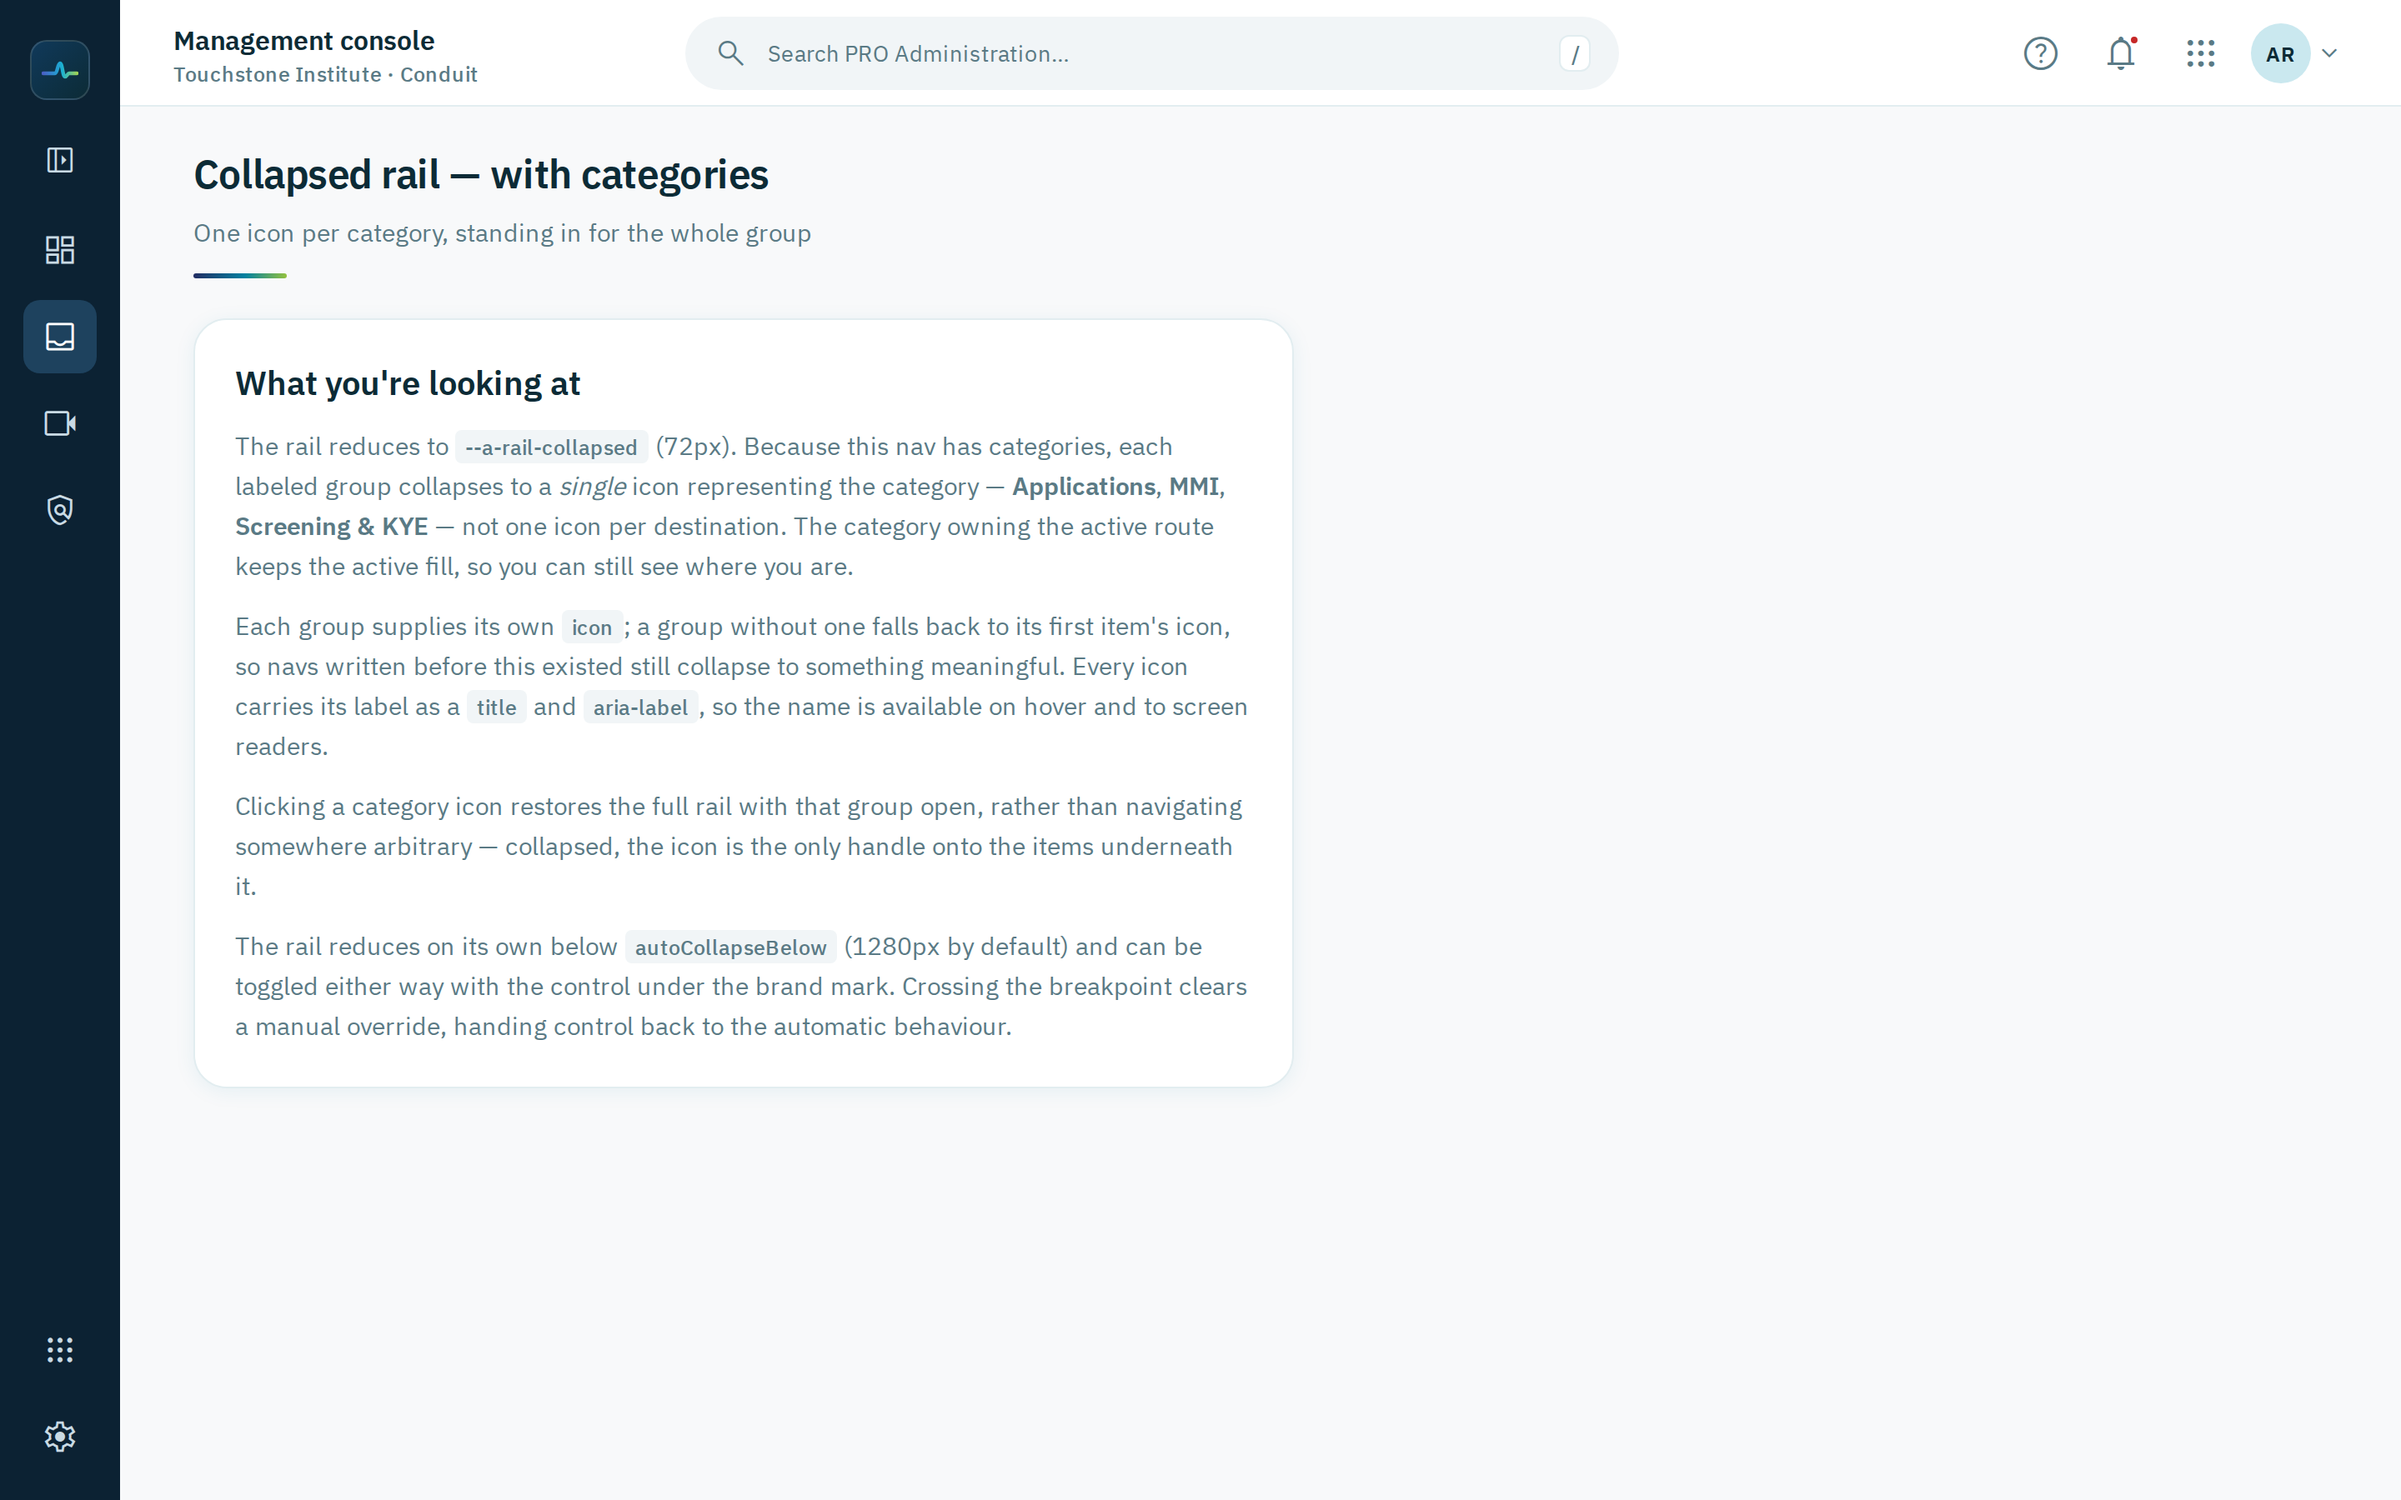
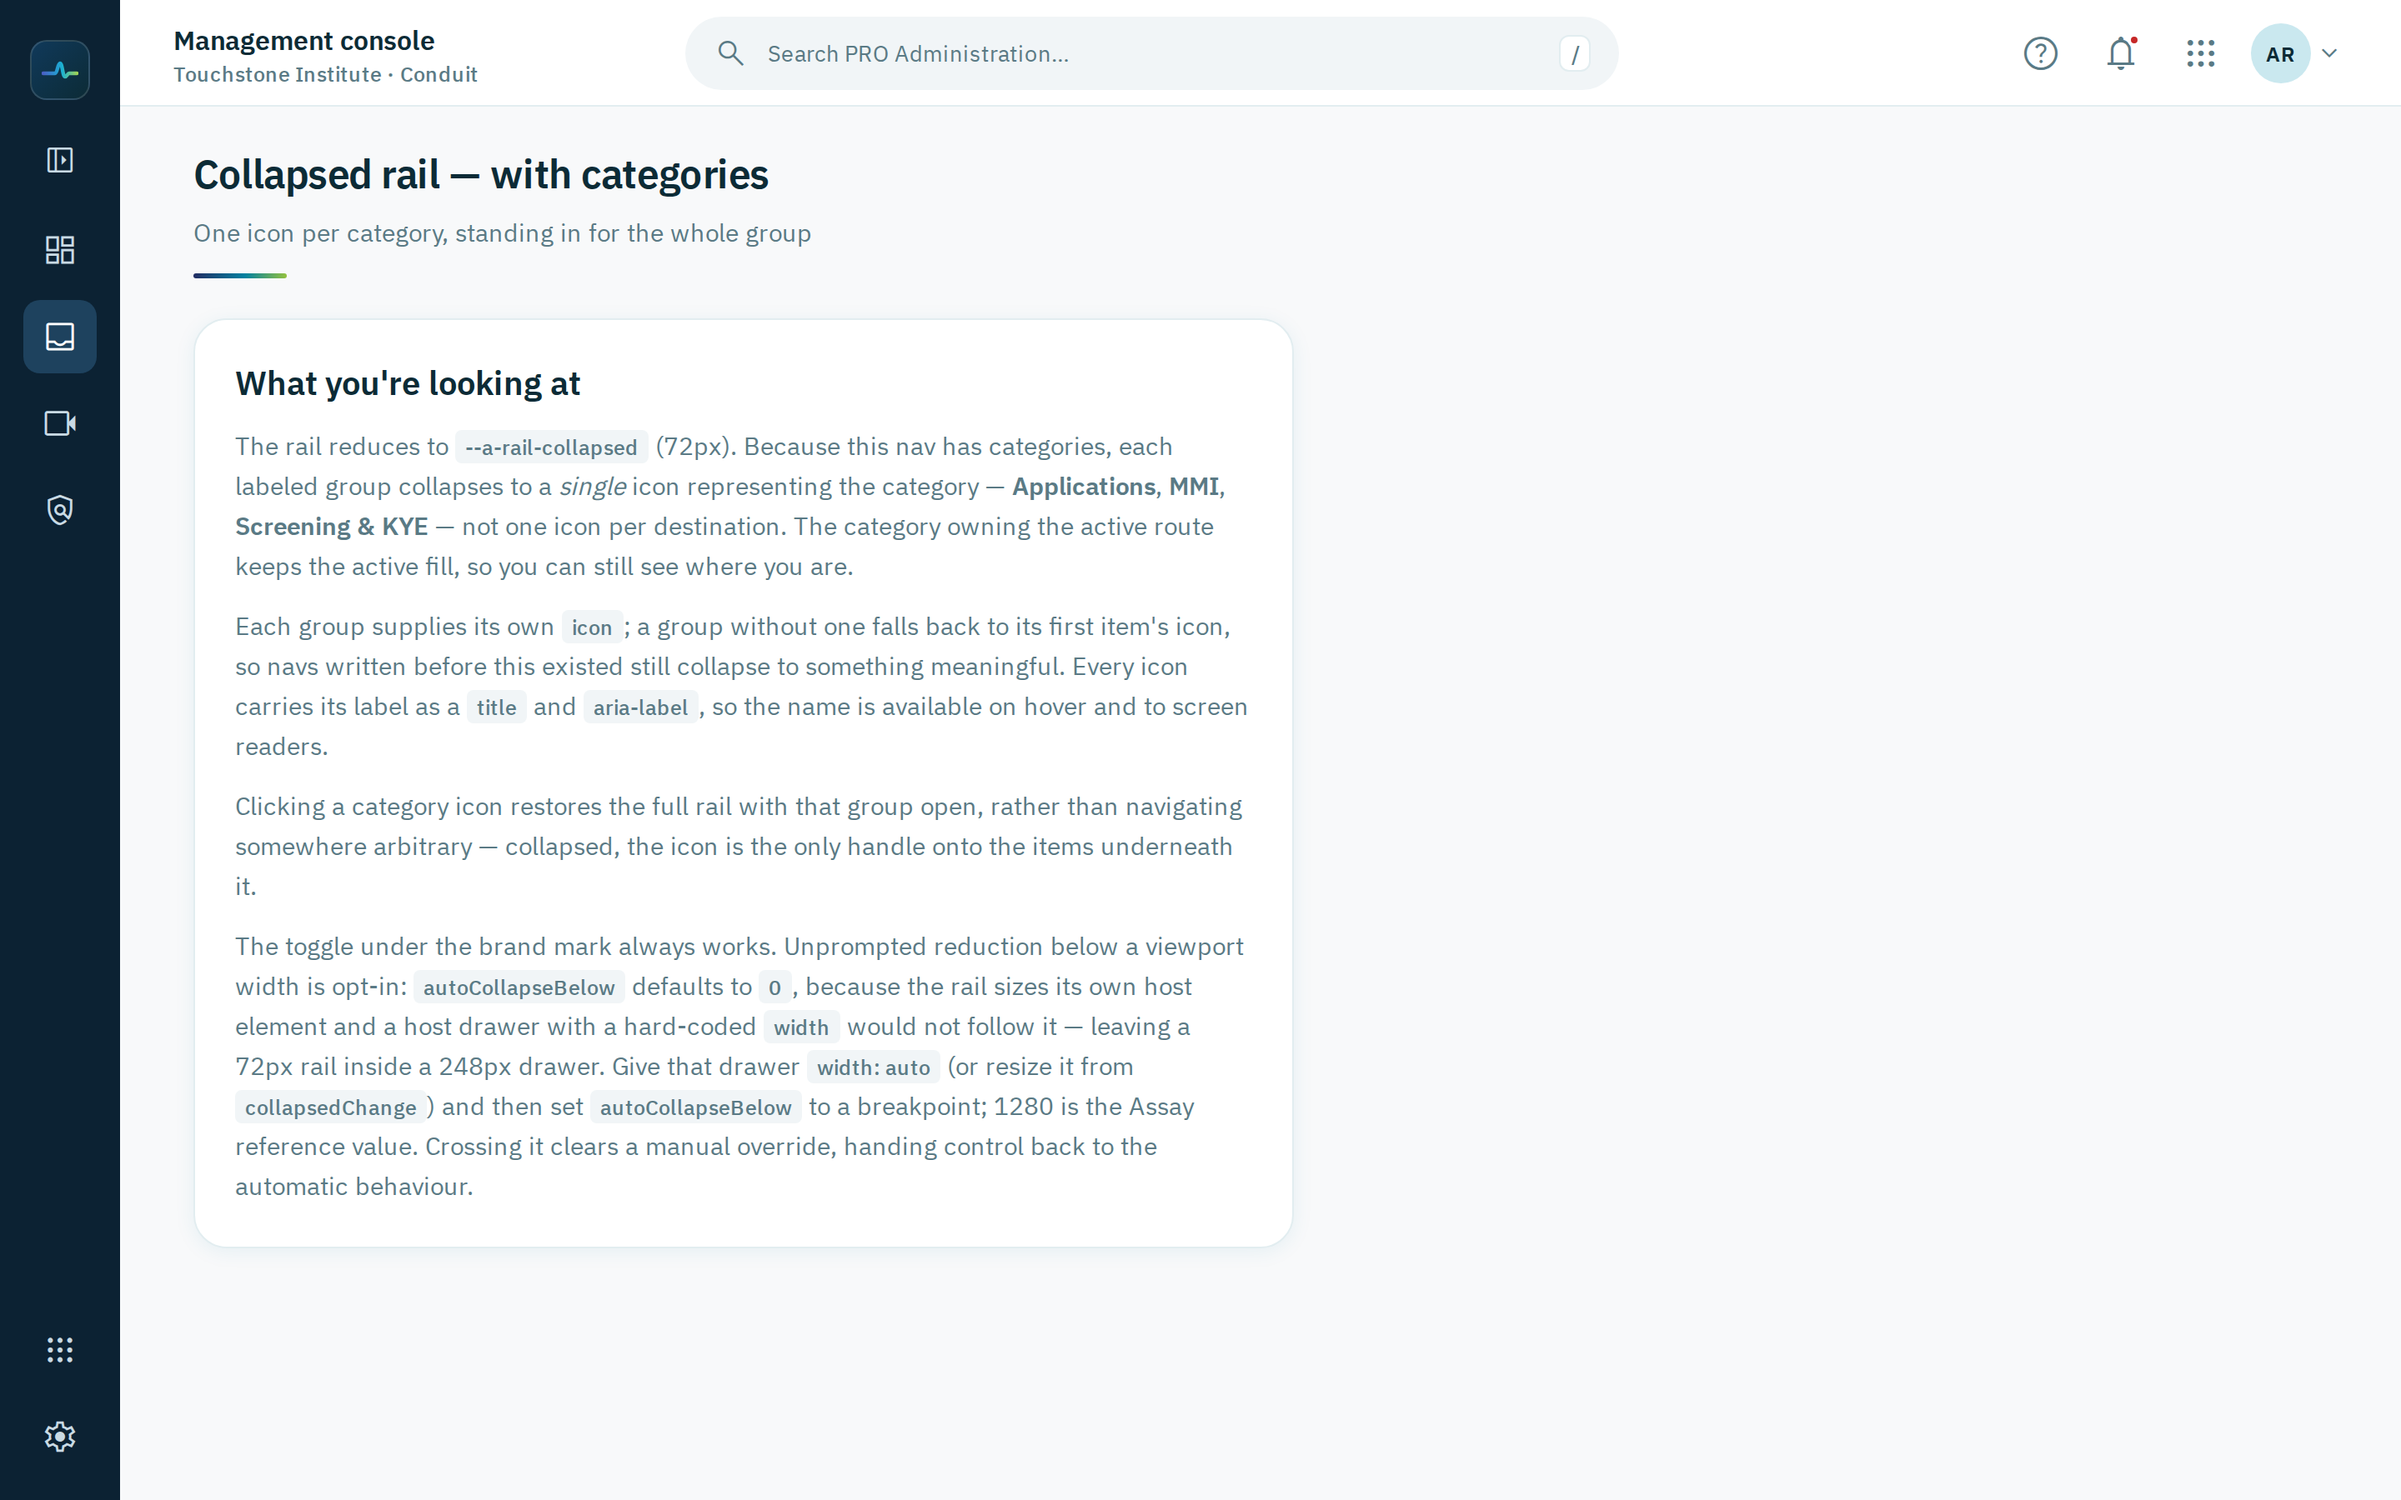
Make unprompted rail collapsing opt-in
autoCollapseBelow defaulted to 1280, but collapsing is not gated on
anything a service opts into: every rail would have started reducing below
that width on a dependency bump alone. The rail sizes its own host element,
and all fourteen Conduit services wrap it in a drawer with a hard-coded
width: var(--a-rail-width) -- so the bump would have put a 72px rail inside
a 248px drawer everywhere, with no code change to point at.

Default to 0 instead. The manual toggle still works everywhere; a service
opts into unprompted collapsing once its drawer follows the rail, either
width: auto or resized from (collapsedChange). mat-sidenav-container also
re-measures content margins only on open/close, mode change, or viewport
ruler change, so a width shifting underneath it can latch a stale margin --
another reason this wants deliberate per-service adoption rather than a
default that arrives unannounced.

Changed region(s): [[0.0938, 0.6222, 0.5, 0.8089]]

diff --git a/projects/assay-ui/src/lib/rail/assay-rail.ts b/projects/assay-ui/src/lib/rail/assay-rail.ts
@@ -16,8 +16,8 @@ import type { AssayNavGroup, AssayNavItem } from '../types';
  * the rider's last choice per `service()` in `localStorage`. An unlabeled group, or a labeled
  * group with exactly one item, renders flat instead — there's nothing to disclose.
  *
- * The rail also reduces itself to an icon-only strip (`var(--a-rail-collapsed)`, 72px) when the
- * viewport drops below `autoCollapseBelow()`, and can be toggled either way by hand. Collapsed,
+ * The rail also reduces to an icon-only strip (`var(--a-rail-collapsed)`, 72px) on the rider's
+ * toggle, and unprompted below `autoCollapseBelow()` once a host opts into that. Collapsed,
  * a labeled group shows one icon standing for the whole category — clicking it restores the full
  * rail with that group open — while an unlabeled group shows its items' own icons. Expanded, every
  * row shows icon and label together.
@@ -25,8 +25,10 @@ import type { AssayNavGroup, AssayNavItem } from '../types';
  * Host apps compose this inside their own drawer/sidenav (e.g. Angular Material's
  * `mat-sidenav`) rather than this library owning that responsibility, since hosts differ in
  * whether they use Material at all. The rail sizes its own host element between
- * `var(--a-rail-width)` and `var(--a-rail-collapsed)`; if your drawer sets its own fixed width,
- * let it size to content (`width: auto`) or react to `collapsedChange`.
+ * `var(--a-rail-width)` and `var(--a-rail-collapsed)`, so a drawer with a hard-coded width will
+ * not follow it: give that drawer `width: auto`, or resize it from `(collapsedChange)`. Until
+ * you have, leave `autoCollapseBelow` at its default of 0 — otherwise the rail shrinks inside a
+ * drawer that doesn't, which is why unprompted collapsing is opt-in rather than automatic.
  *
  * @example
  * ```html
@@ -227,9 +229,18 @@ export class AssayRailComponent {
   readonly ariaLabel = input('Main navigation');
   /** Set false to pin the rail open — no toggle, no auto-reduction. */
   readonly collapsible = input(true);
-  /** Viewport width (px) under which the rail reduces itself to icons on its own. Set 0 to
-   *  leave collapsing entirely to the rider's toggle. */
-  readonly autoCollapseBelow = input(1280);
+  /**
+   * Viewport width (px) under which the rail reduces itself to icons unprompted. **Off by
+   * default (0)**, because the rail sizes its own host element and most hosts wrap it in a
+   * drawer with a hard-coded `width: var(--a-rail-width)` — switching this on without also
+   * letting that drawer size to content leaves a 72px rail inside a 248px drawer. Set it to a
+   * breakpoint (1280 is the Assay reference value) only once the host drawer follows the rail:
+   * `width: auto` on the drawer, or resize it from `(collapsedChange)`. Note that
+   * `mat-sidenav-container` re-measures its content margins only on open/close, mode change,
+   * viewport-ruler change, or with `[autosize]`, so a width that changes underneath it can
+   * latch a stale margin. The manual toggle works regardless of this setting.
+   */
+  readonly autoCollapseBelow = input(0);
   /** Fires on every item click — hosts typically use this to close a mobile drawer. */
   readonly itemClick = output<AssayNavGroup['items'][number]>();
   /** Fires whenever the rail reduces or restores, so a host drawer can resize with it. */

diff --git a/design/mockups/16-rail-collapsed.html b/design/mockups/16-rail-collapsed.html
@@ -86,9 +86,12 @@ renderShell({
       arbitrary — collapsed, the icon is the only handle onto the items underneath it.
     </p>
     <p>
-      The rail reduces on its own below <code>autoCollapseBelow</code> (1280px by default) and can be toggled either
-      way with the control under the brand mark. Crossing the breakpoint clears a manual override, handing control
-      back to the automatic behaviour.
+      The toggle under the brand mark always works. Unprompted reduction below a viewport width is opt-in:
+      <code>autoCollapseBelow</code> defaults to <code>0</code>, because the rail sizes its own host element and a
+      host drawer with a hard-coded <code>width</code> would not follow it — leaving a 72px rail inside a 248px
+      drawer. Give that drawer <code>width: auto</code> (or resize it from <code>collapsedChange</code>) and then set
+      <code>autoCollapseBelow</code> to a breakpoint; 1280 is the Assay reference value. Crossing it clears a manual
+      override, handing control back to the automatic behaviour.
     </p>
   </div>
 
